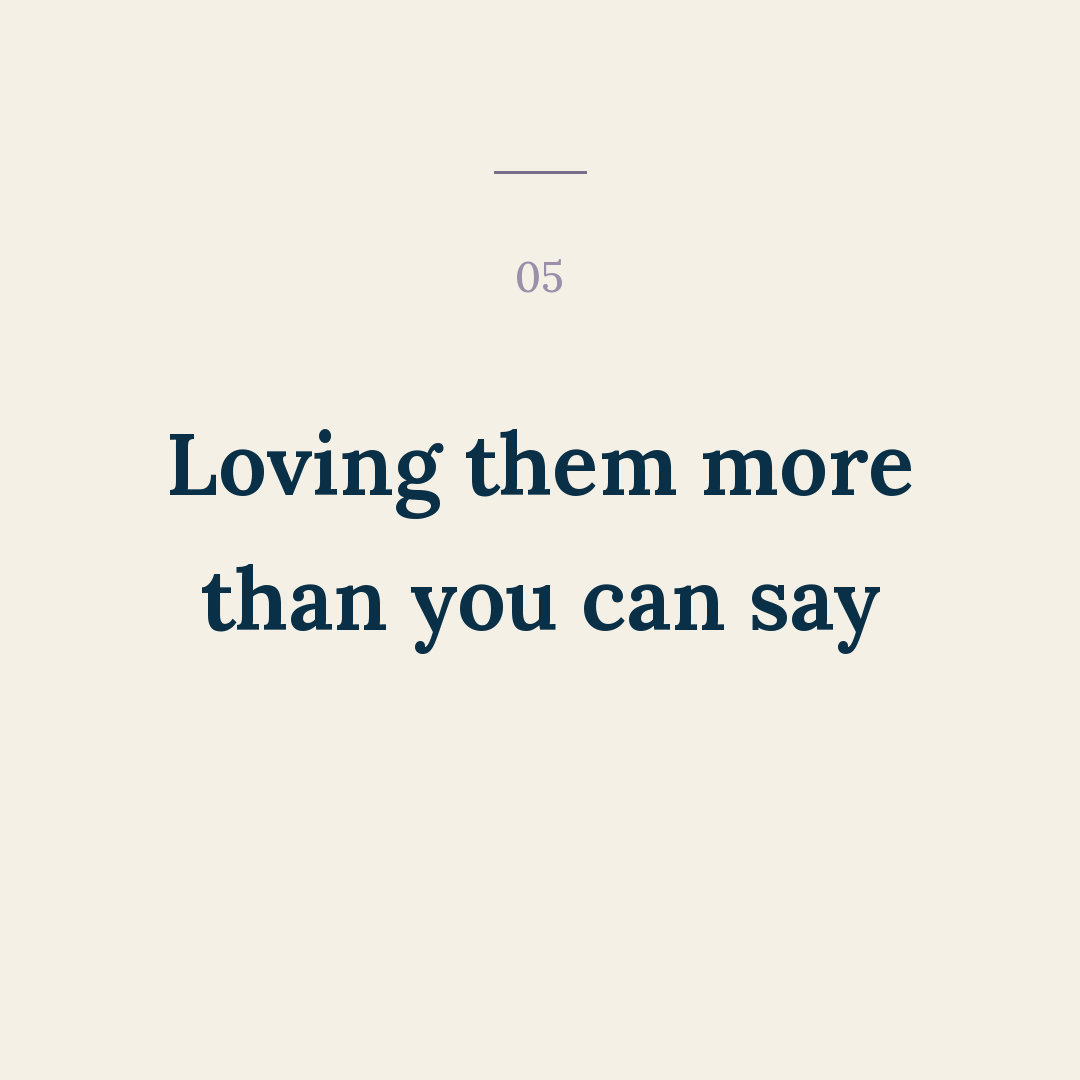
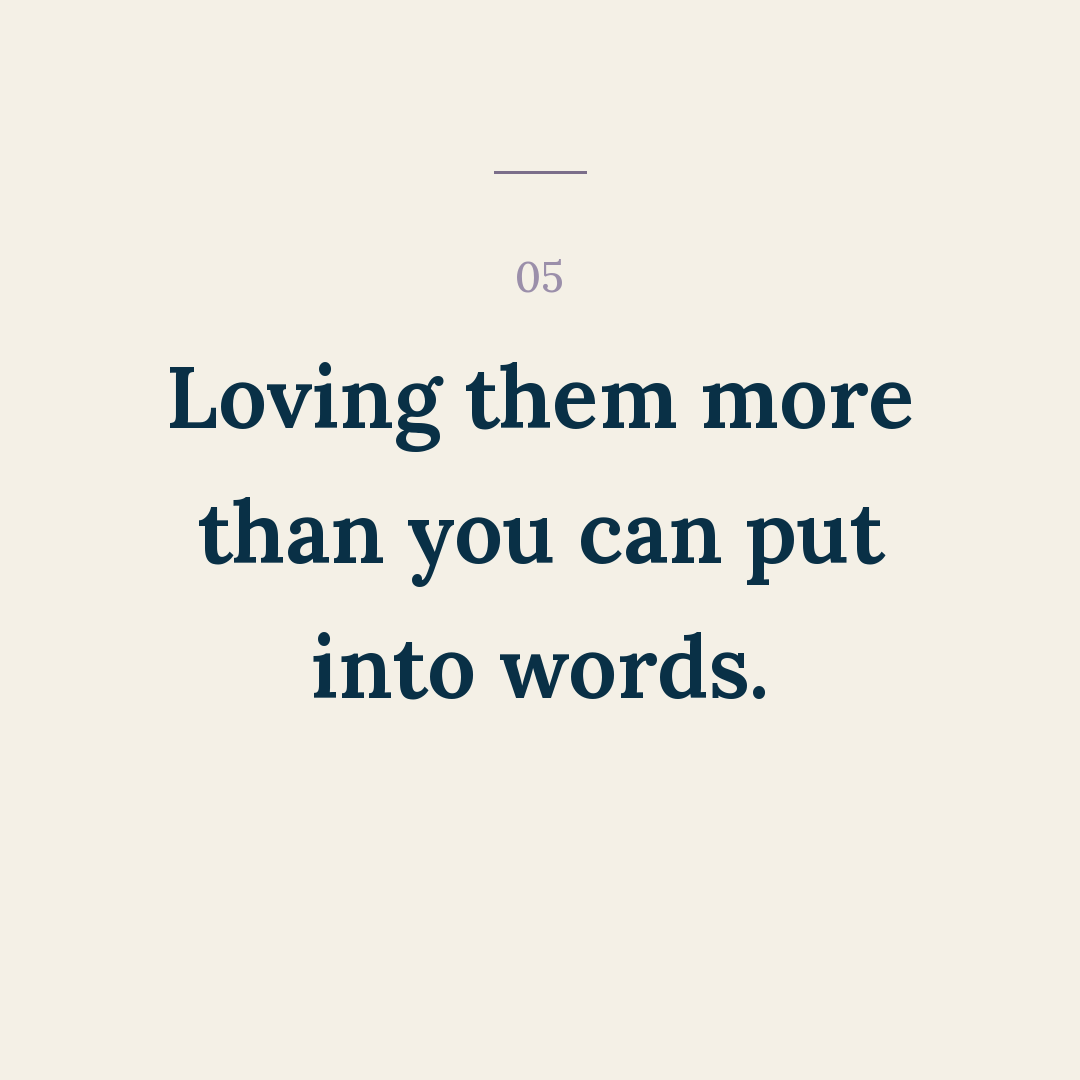
Add 13-quietly-doing-right (13 - Quietly Doing Right)

Changed region(s): [[0.1528, 0.3361, 0.8556, 0.6722]]

diff --git a/posts/13-quietly-doing-right/slides.md b/posts/13-quietly-doing-right/slides.md
@@ -3,16 +3,16 @@
 Format: carousel · bg cream
 
 ## Cover
-Things every new mom is quietly doing right…
+5 things you're doing better than you think
 
 ## Items
-01  Showing up exhausted, every time
-02  Learning them faster than you know
+01  Showing up, even when you're exhausted
+02  Learning what they need, bit by bit
 03  Asking "am I doing this right?"
 04  Holding them through the hard nights
-05  Loving them more than you can say
+05  Loving them more than you can put into words
 
 ## Closer (share)
-Send this to a new mom doing her best
+Send this to a mom who needs it today
 
-Rendered slide-1..slide-7 (weight 650).
+Rendered slide-1..slide-7 (weight 650, cover carries the therapist byline).
